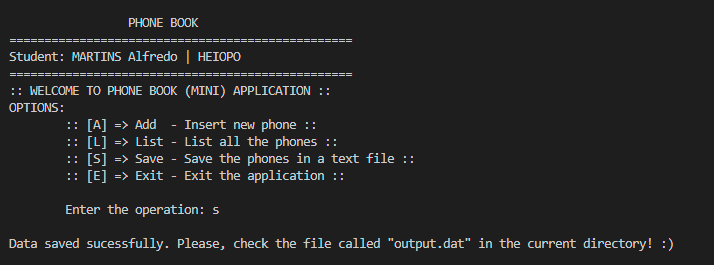
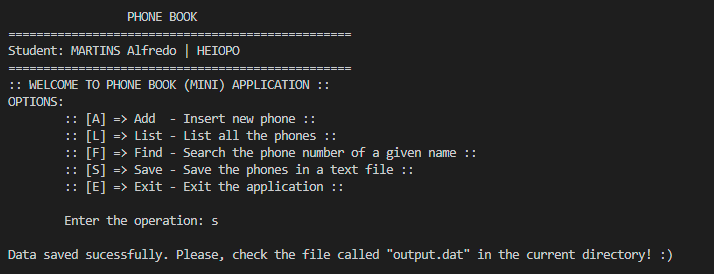
Search funtionality added.

diff --git a/util.c b/util.c
@@ -15,6 +15,7 @@ launch_manually(phone_book_t* phonebook){
     printf("OPTIONS: \n");
     printf("\t:: [A] => Add  - Insert new phone ::\n");
     printf("\t:: [L] => List - List all the phones ::\n");
+    printf("\t:: [F] => Find - Search the phone number of a given name ::\n");
     printf("\t:: [S] => Save - Save the phones in a text file ::\n");
     printf("\t:: [E] => Exit - Exit the application ::\n");
 
@@ -31,6 +32,9 @@ launch_manually(phone_book_t* phonebook){
         case 'L':
             list(phonebook);
             break;
+        case 'F':
+            search(phonebook);
+            break;
         case 'S':
             save(phonebook);
             break;
@@ -45,7 +49,7 @@ launch_manually(phone_book_t* phonebook){
 }
 
 /* === PRINT NICE HEADER :) === */
-void 
+void
 header(){
     // if define on linux and mac
     printf("\n\t\t\xdb\xdb\xdb\xdb\xdb\xdb\xdb\xdb\xdb\xdb\xdb\xdb\xdb\xdb\xdb\xdb\xdb\xdb\xdb\xdb\xdb PHONE BOOK \xdb\xdb\xdb\xdb\xdb\xdb\xdb\xdb\xdb\xdb\xdb\xdb\xdb\xdb\xdb\xdb\n");
@@ -55,7 +59,7 @@ header(){
 }
 
 /* === GOODBYE MESSAGE AND RECOGNITION === */
-void 
+void
 dismiss(){
     time_t curtime;
     time(&curtime);
@@ -107,12 +111,13 @@ add(phone_book_t* phonebook){
         printf("Error inserting %s : %s\n", name, phone_number);
     } else{
         printf("\nPhone inserted sucessfully!\n");
-        launch_manually(phonebook);
     }
+    
+    launch_manually(phonebook);
 }
 
 /* === LIST ALL THE PHONE ===*/
-void  
+void
 list(phone_book_t* phonebook){
     printf("\n:: LIST PHONE BOOK ::\n\n");
     print(phonebook);
@@ -120,8 +125,35 @@ list(phone_book_t* phonebook){
     launch_manually(phonebook); /* Go back to the menu */
 }
 
+/* === SEARCH FOR A PHONE NUMBER OF A GIVEN NAME ===*/
+void
+search(phone_book_t* phonebook){
+    printf("\n:: SEARCH OF A PHONE NUMBER'S NAME ::\n\n");
+    
+    print(phonebook);
+
+    printf("\nEnter a name (maximum of 30 digits or characters): ");
+    char name[256];
+    char c;
+    size_t index = 0;
+    while ((c = getchar()) != '\n') {
+        name[index++] = c;
+    }
+
+    name[index] = '\0';
+    const char* result;
+    result = get(phonebook, name);
+    if (result == NULL) {
+        printf("\nPhone name not found.\n");
+    } else {
+        printf("\nPhone number of \"%s\": %s.\n", name, result);
+    }
+
+    launch_manually(phonebook); /* Go back to the menu */
+}
+
 /* === SAVE THE LIST IN A DEFAULT FILE CALLED "output.dat" ===*/
-void  
+void
 save(phone_book_t* phonebook){
     char file_name[] = "output.dat";
     dump(phonebook, file_name);

diff --git a/util.h b/util.h
@@ -16,6 +16,7 @@ void  header();
 void  dismiss();
 void  add(phone_book_t* phonebook);
 void  list(phone_book_t* phonebook);
+void  search(phone_book_t* phonebook);
 void  save(phone_book_t* phonebook);
 
 /* === AUXILIARY FUNCTIONS === */

diff --git a/readme.md b/readme.md
@@ -50,30 +50,40 @@ ___
 ## Screenshots
 
 ### Run in random mode
-1. Single screen <br>
+1. Single screen
+   <br>
    ![Run random mode](screenshots/run_randomly.png)
-
-2. Outputfile<br>
-   ![Output of random mode](screenshots/output_random.png)
+   <br>
+2. Outputfile
+    <br>
+    ![Output of random mode](screenshots/output_random.png)
     <br>
 ### Run manually
-1. Main screen and insertion <br>
-   ![Main screen and insertion](screenshots/menu_and_insert.png)
+1. Main screen and insertion
     <br>
-2. Insertion <br>
-   ![Insertion of a phone](screenshots/insert.png)
+    ![Main screen and insertion](screenshots/menu.png)
+    <br>
+2. Insertion
+    <br>
+    ![Insertion of a phone](screenshots/insert_1.png)
+    <br>
+    ![Insertion of another phone](screenshots/insert_2.png)
     <br>
 3. List 
     <br>
-   ![List all the phones](screenshots/list.png)
+    ![List all the phones](screenshots/list.png)
     <br>
-4. Save
+4. Search
+   <br>
+   ![Search a name](screenshots/search.png)
+   <br>
+5. Save
     <br>
-   ![Save of data](screenshots/data_saved.png)
+    ![Save of data](screenshots/data_saved.png)
     <br>
-5. Dismiss
+6. Dismiss
     <br>
-   ![Goodbye message](screenshots/dismiss.png)
+    ![Goodbye message](screenshots/dismiss.png)
     <br>
 
 > Solved by: MARTINS Alfredo
